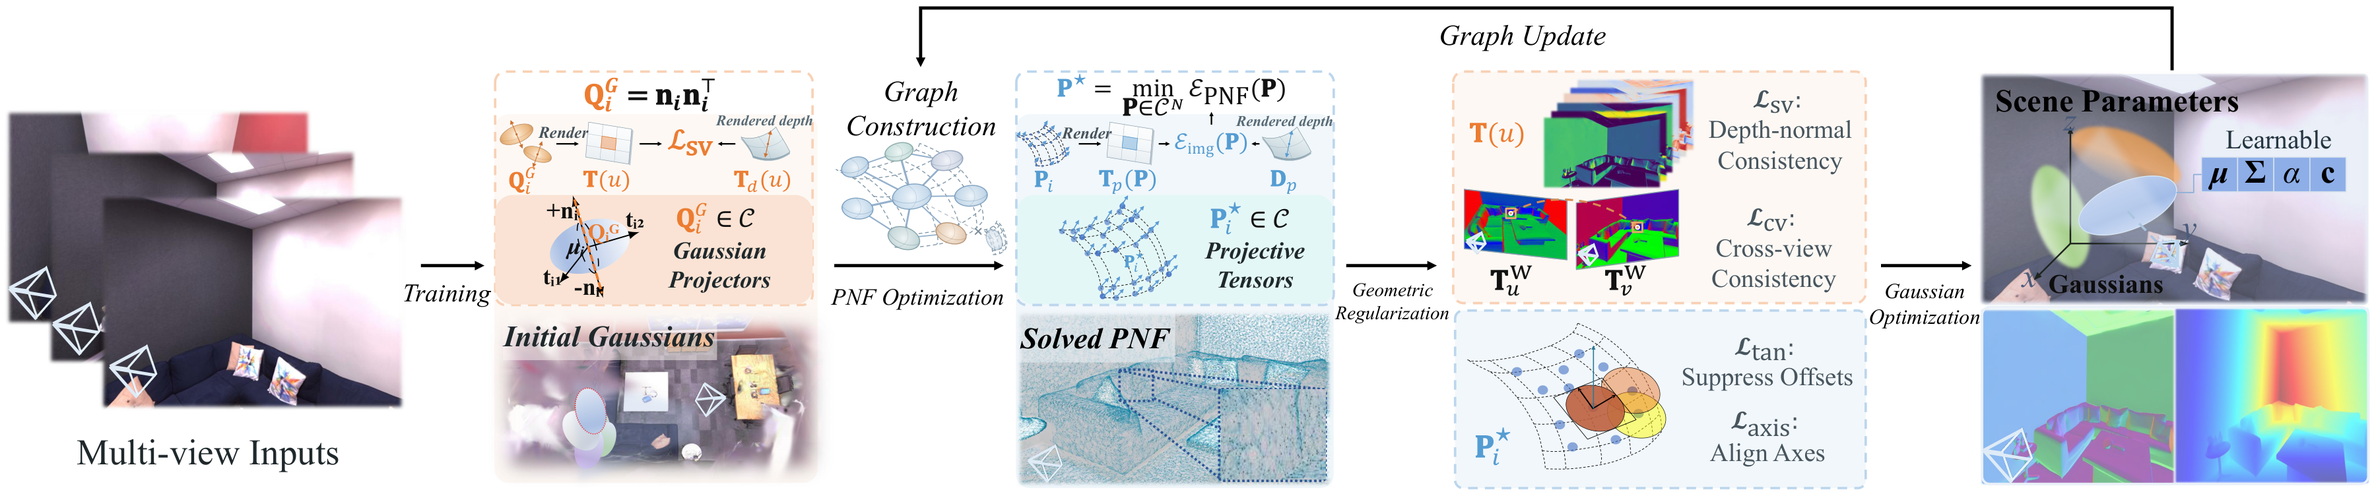
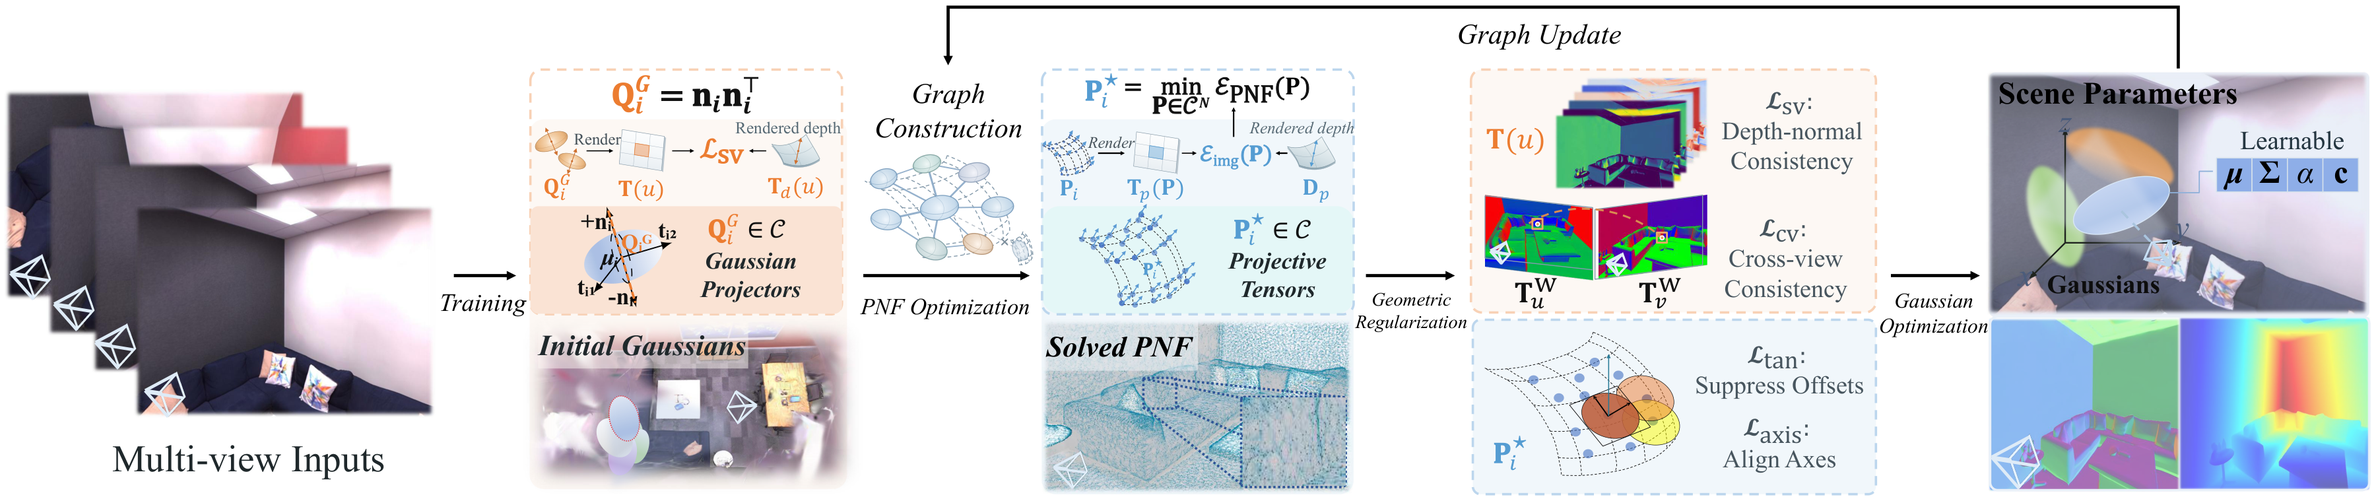
Add point-normal recovery and sync latest paper figures

diff --git a/VisPNF/index.html b/VisPNF/index.html
@@ -63,7 +63,7 @@
     <section id="method" class="method-section container" aria-labelledby="method-title">
       <div class="section-heading centered"><p class="eyebrow">Local evidence. Shared geometry.</p><h2 id="method-title">Method overview</h2></div>
       <figure class="method-figure">
-        <a href="assets/images/overview.webp?v=paper-a0293d3" target="_blank" rel="noopener" aria-label="Open full-resolution VisPNF method overview"><img src="assets/images/overview.webp?v=paper-a0293d3" width="3600" height="752" alt="VisPNF pipeline: graph construction, Gaussian-aware anchors, field optimization with rendered-field constraints, and Gaussian optimization using geometric regularization." loading="lazy" decoding="async"></a>
+        <a href="assets/images/overview.webp?v=paper-d8870f4" target="_blank" rel="noopener" aria-label="Open full-resolution VisPNF method overview"><img src="assets/images/overview.webp?v=paper-d8870f4" width="3600" height="759" alt="VisPNF pipeline: graph construction, Gaussian-aware anchors, field optimization with rendered-field constraints, and Gaussian optimization using geometric regularization." loading="lazy" decoding="async"></a>
         <figcaption>Projective field inference and Gaussian optimization are coupled through fixed geometric targets.</figcaption>
       </figure>
       <div class="method-description">
@@ -182,25 +182,35 @@
         <p class="result-table-note" id="result-table-note">Metrics are averaged over scenes. CD is in centimeters; F-score and normal consistency (NC) are percentages. ↑ / ↓ indicate higher / lower is better.</p>
       </article>
       <div class="results-description experiment-analysis"><p><strong>Reconstruction.</strong> VisPNF achieves the lowest mean CD and highest mean F-score on all three datasets. It ranks first in mean NC on Replica and ScanNet++ and second on MuSHRoom, behind AmbiSuR.</p><p><strong>Rendering.</strong> VisPNF achieves the highest mean PSNR on Replica and the lowest mean LPIPS on all three datasets, improving both metrics over PGSR across all three benchmarks.</p></div>
+      <figure class="experiment-figure" id="experiment-figure-3">
+        <figcaption><span class="result-kicker">Figure 3</span><h3>Point-normal recovery</h3><p>On a fixed set of 500,000 points from a synthetic scene, all variants use identical anchors and initialization. Full PNF achieves lower final angular error than either ablation. Rendered-field consistency incorporates depth-normal evidence into field inference, while radiance affinity weights neighboring cues according to appearance agreement.</p><p>Left: RGB images and angular-error maps with matched insets. The maps share a logarithmic color scale; gray indicates no common valid support. Right: mean unsigned normal error against iteration count and solver time.</p></figcaption>
+        <a href="assets/images/experiments/point-normal-recovery.webp?v=paper-d8870f4" target="_blank" rel="noopener" aria-label="Open Figure 3 at full resolution"><img src="assets/images/experiments/point-normal-recovery.webp?v=paper-d8870f4" width="3000" height="1155" loading="lazy" decoding="async" alt="Point-normal recovery. On a fixed set of 500,000 points from a synthetic scene, all variants use identical anchors and initialization. Full PNF achieves lower final angular error than either ablation. Rendered-field consistency incorporates depth-normal evidence into field inference, while radiance affinity weights neighboring cues according to appearance agreement."></a>
+        <a class="experiment-enlarge" href="assets/images/experiments/point-normal-recovery.webp?v=paper-d8870f4" target="_blank" rel="noopener">Open full-resolution figure <span aria-hidden="true">↗</span></a>
+      </figure>
       <figure class="experiment-figure" id="experiment-figure-4">
-        <figcaption><span class="result-kicker">Figure 4</span><h3>Surface reconstruction across indoor scenes</h3><p>Surface reconstruction on Replica (top two rows), ScanNet++ (middle two rows), and MuSHRoom (bottom two rows). Red dashed boxes highlight regions for comparing surface continuity and local structure.</p></figcaption>
-        <a href="assets/images/experiments/surface-reconstruction.webp?v=paper-a0293d3" target="_blank" rel="noopener" aria-label="Open Figure 4 at full resolution"><img src="assets/images/experiments/surface-reconstruction.webp?v=paper-a0293d3" width="2800" height="1678" loading="lazy" decoding="async" alt="Surface reconstruction across indoor scenes. Surface reconstruction on Replica (top two rows), ScanNet++ (middle two rows), and MuSHRoom (bottom two rows). Red dashed boxes highlight regions for comparing surface continuity and local structure."></a>
-        <a class="experiment-enlarge" href="assets/images/experiments/surface-reconstruction.webp?v=paper-a0293d3" target="_blank" rel="noopener">Open full-resolution figure <span aria-hidden="true">↗</span></a>
+        <figcaption><span class="result-kicker">Figure 4</span><h3>Convergence of the PNF solver</h3><p>The top and bottom rows compare projected FISTA, projected gradient descent (PGD), and projected Adam on a fixed geometric PNF subproblem (λ<sub>img</sub> = 0) and a full PNF objective (λ<sub>img</sub> = 0.05). In both cases, projected FISTA reaches a normalized iterate change below 10⁻⁴ faster than PGD and projected Adam.</p></figcaption>
+        <a href="assets/images/experiments/solver-convergence.webp?v=paper-d8870f4" target="_blank" rel="noopener" aria-label="Open Figure 4 at full resolution"><img src="assets/images/experiments/solver-convergence.webp?v=paper-d8870f4" width="1800" height="1088" loading="lazy" decoding="async" alt="Convergence of the PNF solver. The top and bottom rows compare projected FISTA, projected gradient descent (PGD), and projected Adam on a fixed geometric PNF subproblem (λimg = 0) and a full PNF objective (λimg = 0.05). In both cases, projected FISTA reaches a normalized iterate change below 10⁻⁴ faster than PGD and projected Adam."></a>
+        <a class="experiment-enlarge" href="assets/images/experiments/solver-convergence.webp?v=paper-d8870f4" target="_blank" rel="noopener">Open full-resolution figure <span aria-hidden="true">↗</span></a>
       </figure>
       <figure class="experiment-figure" id="experiment-figure-5">
-        <figcaption><span class="result-kicker">Figure 5</span><h3>Surface error against ground truth</h3><p>Error maps for the scenes and viewpoints in Figure 4. Colors show the distance from each visible reconstructed surface point to the nearest ground-truth surface. White color indicates no reconstructed surface.</p></figcaption>
-        <a href="assets/images/experiments/surface-error.webp?v=paper-a0293d3" target="_blank" rel="noopener" aria-label="Open Figure 5 at full resolution"><img src="assets/images/experiments/surface-error.webp?v=paper-a0293d3" width="2800" height="1542" loading="lazy" decoding="async" alt="Surface error against ground truth. Error maps for the scenes and viewpoints in Figure 4. Colors show the distance from each visible reconstructed surface point to the nearest ground-truth surface. White color indicates no reconstructed surface."></a>
-        <a class="experiment-enlarge" href="assets/images/experiments/surface-error.webp?v=paper-a0293d3" target="_blank" rel="noopener">Open full-resolution figure <span aria-hidden="true">↗</span></a>
+        <figcaption><span class="result-kicker">Figure 5</span><h3>Surface reconstruction across indoor scenes</h3><p>Surface reconstruction on Replica (top two rows), ScanNet++ (middle two rows), and MuSHRoom (bottom two rows). Red dashed boxes highlight regions for comparing surface continuity and local structure.</p></figcaption>
+        <a href="assets/images/experiments/surface-reconstruction.webp?v=paper-d8870f4" target="_blank" rel="noopener" aria-label="Open Figure 5 at full resolution"><img src="assets/images/experiments/surface-reconstruction.webp?v=paper-d8870f4" width="2800" height="1678" loading="lazy" decoding="async" alt="Surface reconstruction across indoor scenes. Surface reconstruction on Replica (top two rows), ScanNet++ (middle two rows), and MuSHRoom (bottom two rows). Red dashed boxes highlight regions for comparing surface continuity and local structure."></a>
+        <a class="experiment-enlarge" href="assets/images/experiments/surface-reconstruction.webp?v=paper-d8870f4" target="_blank" rel="noopener">Open full-resolution figure <span aria-hidden="true">↗</span></a>
       </figure>
       <figure class="experiment-figure" id="experiment-figure-6">
-        <figcaption><span class="result-kicker">Figure 6</span><h3>Optimized Gaussian kernels</h3><p>Optimized Gaussian kernels on Replica (left) and ScanNet++ (right). VisPNF produces more regular kernel distributions than its PGSR backbone.</p></figcaption>
-        <a href="assets/images/experiments/gaussian-kernels.webp?v=paper-a0293d3" target="_blank" rel="noopener" aria-label="Open Figure 6 at full resolution"><img src="assets/images/experiments/gaussian-kernels.webp?v=paper-a0293d3" width="2800" height="877" loading="lazy" decoding="async" alt="Optimized Gaussian kernels. Optimized Gaussian kernels on Replica (left) and ScanNet++ (right). VisPNF produces more regular kernel distributions than its PGSR backbone."></a>
-        <a class="experiment-enlarge" href="assets/images/experiments/gaussian-kernels.webp?v=paper-a0293d3" target="_blank" rel="noopener">Open full-resolution figure <span aria-hidden="true">↗</span></a>
+        <figcaption><span class="result-kicker">Figure 6</span><h3>Surface error against ground truth</h3><p>Error maps for the scenes and viewpoints in Figure 5. Colors show the distance from each visible reconstructed surface point to the nearest ground-truth surface. White color indicates no reconstructed surface.</p></figcaption>
+        <a href="assets/images/experiments/surface-error.webp?v=paper-d8870f4" target="_blank" rel="noopener" aria-label="Open Figure 6 at full resolution"><img src="assets/images/experiments/surface-error.webp?v=paper-d8870f4" width="2800" height="1542" loading="lazy" decoding="async" alt="Surface error against ground truth. Error maps for the scenes and viewpoints in Figure 5. Colors show the distance from each visible reconstructed surface point to the nearest ground-truth surface. White color indicates no reconstructed surface."></a>
+        <a class="experiment-enlarge" href="assets/images/experiments/surface-error.webp?v=paper-d8870f4" target="_blank" rel="noopener">Open full-resolution figure <span aria-hidden="true">↗</span></a>
       </figure>
       <figure class="experiment-figure" id="experiment-figure-7">
-        <figcaption><span class="result-kicker">Figure 7</span><h3>RGB, normal, and depth comparisons</h3><p>Qualitative comparison of RGB images, normal maps, and depth maps. Red dashed boxes mark corresponding regions.</p></figcaption>
-        <a href="assets/images/experiments/rgb-normal-depth.webp?v=paper-a0293d3" target="_blank" rel="noopener" aria-label="Open Figure 7 at full resolution"><img src="assets/images/experiments/rgb-normal-depth.webp?v=paper-a0293d3" width="3000" height="2519" loading="lazy" decoding="async" alt="RGB, normal, and depth comparisons. Qualitative comparison of RGB images, normal maps, and depth maps. Red dashed boxes mark corresponding regions."></a>
-        <a class="experiment-enlarge" href="assets/images/experiments/rgb-normal-depth.webp?v=paper-a0293d3" target="_blank" rel="noopener">Open full-resolution figure <span aria-hidden="true">↗</span></a>
+        <figcaption><span class="result-kicker">Figure 7</span><h3>Optimized Gaussian kernels</h3><p>Optimized Gaussian kernels on Replica (left) and ScanNet++ (right). VisPNF produces more regular kernel distributions than its PGSR backbone.</p></figcaption>
+        <a href="assets/images/experiments/gaussian-kernels.webp?v=paper-d8870f4" target="_blank" rel="noopener" aria-label="Open Figure 7 at full resolution"><img src="assets/images/experiments/gaussian-kernels.webp?v=paper-d8870f4" width="2800" height="877" loading="lazy" decoding="async" alt="Optimized Gaussian kernels. Optimized Gaussian kernels on Replica (left) and ScanNet++ (right). VisPNF produces more regular kernel distributions than its PGSR backbone."></a>
+        <a class="experiment-enlarge" href="assets/images/experiments/gaussian-kernels.webp?v=paper-d8870f4" target="_blank" rel="noopener">Open full-resolution figure <span aria-hidden="true">↗</span></a>
+      </figure>
+      <figure class="experiment-figure" id="experiment-figure-8">
+        <figcaption><span class="result-kicker">Figure 8</span><h3>RGB, normal, and depth comparisons</h3><p>Qualitative comparison of RGB images, normal maps, and depth maps. Red dashed boxes mark corresponding regions.</p></figcaption>
+        <a href="assets/images/experiments/rgb-normal-depth.webp?v=paper-d8870f4" target="_blank" rel="noopener" aria-label="Open Figure 8 at full resolution"><img src="assets/images/experiments/rgb-normal-depth.webp?v=paper-d8870f4" width="3000" height="2604" loading="lazy" decoding="async" alt="RGB, normal, and depth comparisons. Qualitative comparison of RGB images, normal maps, and depth maps. Red dashed boxes mark corresponding regions."></a>
+        <a class="experiment-enlarge" href="assets/images/experiments/rgb-normal-depth.webp?v=paper-d8870f4" target="_blank" rel="noopener">Open full-resolution figure <span aria-hidden="true">↗</span></a>
       </figure>
     </section>
     <section class="prose-container closing-section"><h2>Coherent geometry across indoor environments</h2><p>Across Replica, ScanNet++, and MuSHRoom, VisPNF consistently improves surface reconstruction and rendering quality over PGSR. The projective field provides a common geometric representation across these different capture conditions.</p></section>

diff --git a/review/index.html b/review/index.html
@@ -65,7 +65,7 @@
     <section id="method" class="method-section container" aria-labelledby="method-title">
       <div class="section-heading centered"><p class="eyebrow">Local evidence. Shared geometry.</p><h2 id="method-title">Method overview</h2></div>
       <figure class="method-figure">
-        <a href="assets/images/overview.webp?v=paper-a0293d3" target="_blank" rel="noopener" aria-label="Open full-resolution VisPNF method overview"><img src="assets/images/overview.webp?v=paper-a0293d3" width="3600" height="752" alt="VisPNF pipeline: graph construction, Gaussian-aware anchors, field optimization with rendered-field constraints, and Gaussian optimization using geometric regularization." loading="lazy" decoding="async"></a>
+        <a href="assets/images/overview.webp?v=paper-d8870f4" target="_blank" rel="noopener" aria-label="Open full-resolution VisPNF method overview"><img src="assets/images/overview.webp?v=paper-d8870f4" width="3600" height="759" alt="VisPNF pipeline: graph construction, Gaussian-aware anchors, field optimization with rendered-field constraints, and Gaussian optimization using geometric regularization." loading="lazy" decoding="async"></a>
         <figcaption>Projective field inference and Gaussian optimization are coupled through fixed geometric targets.</figcaption>
       </figure>
       <div class="method-description">
@@ -184,25 +184,35 @@
         <p class="result-table-note" id="result-table-note">Metrics are averaged over scenes. CD is in centimeters; F-score and normal consistency (NC) are percentages. ↑ / ↓ indicate higher / lower is better.</p>
       </article>
       <div class="results-description experiment-analysis"><p><strong>Reconstruction.</strong> VisPNF achieves the lowest mean CD and highest mean F-score on all three datasets. It ranks first in mean NC on Replica and ScanNet++ and second on MuSHRoom, behind AmbiSuR.</p><p><strong>Rendering.</strong> VisPNF achieves the highest mean PSNR on Replica and the lowest mean LPIPS on all three datasets, improving both metrics over PGSR across all three benchmarks.</p></div>
+      <figure class="experiment-figure" id="experiment-figure-3">
+        <figcaption><span class="result-kicker">Figure 3</span><h3>Point-normal recovery</h3><p>On a fixed set of 500,000 points from a synthetic scene, all variants use identical anchors and initialization. Full PNF achieves lower final angular error than either ablation. Rendered-field consistency incorporates depth-normal evidence into field inference, while radiance affinity weights neighboring cues according to appearance agreement.</p><p>Left: RGB images and angular-error maps with matched insets. The maps share a logarithmic color scale; gray indicates no common valid support. Right: mean unsigned normal error against iteration count and solver time.</p></figcaption>
+        <a href="assets/images/experiments/point-normal-recovery.webp?v=paper-d8870f4" target="_blank" rel="noopener" aria-label="Open Figure 3 at full resolution"><img src="assets/images/experiments/point-normal-recovery.webp?v=paper-d8870f4" width="3000" height="1155" loading="lazy" decoding="async" alt="Point-normal recovery. On a fixed set of 500,000 points from a synthetic scene, all variants use identical anchors and initialization. Full PNF achieves lower final angular error than either ablation. Rendered-field consistency incorporates depth-normal evidence into field inference, while radiance affinity weights neighboring cues according to appearance agreement."></a>
+        <a class="experiment-enlarge" href="assets/images/experiments/point-normal-recovery.webp?v=paper-d8870f4" target="_blank" rel="noopener">Open full-resolution figure <span aria-hidden="true">↗</span></a>
+      </figure>
       <figure class="experiment-figure" id="experiment-figure-4">
-        <figcaption><span class="result-kicker">Figure 4</span><h3>Surface reconstruction across indoor scenes</h3><p>Surface reconstruction on Replica (top two rows), ScanNet++ (middle two rows), and MuSHRoom (bottom two rows). Red dashed boxes highlight regions for comparing surface continuity and local structure.</p></figcaption>
-        <a href="assets/images/experiments/surface-reconstruction.webp?v=paper-a0293d3" target="_blank" rel="noopener" aria-label="Open Figure 4 at full resolution"><img src="assets/images/experiments/surface-reconstruction.webp?v=paper-a0293d3" width="2800" height="1678" loading="lazy" decoding="async" alt="Surface reconstruction across indoor scenes. Surface reconstruction on Replica (top two rows), ScanNet++ (middle two rows), and MuSHRoom (bottom two rows). Red dashed boxes highlight regions for comparing surface continuity and local structure."></a>
-        <a class="experiment-enlarge" href="assets/images/experiments/surface-reconstruction.webp?v=paper-a0293d3" target="_blank" rel="noopener">Open full-resolution figure <span aria-hidden="true">↗</span></a>
+        <figcaption><span class="result-kicker">Figure 4</span><h3>Convergence of the PNF solver</h3><p>The top and bottom rows compare projected FISTA, projected gradient descent (PGD), and projected Adam on a fixed geometric PNF subproblem (λ<sub>img</sub> = 0) and a full PNF objective (λ<sub>img</sub> = 0.05). In both cases, projected FISTA reaches a normalized iterate change below 10⁻⁴ faster than PGD and projected Adam.</p></figcaption>
+        <a href="assets/images/experiments/solver-convergence.webp?v=paper-d8870f4" target="_blank" rel="noopener" aria-label="Open Figure 4 at full resolution"><img src="assets/images/experiments/solver-convergence.webp?v=paper-d8870f4" width="1800" height="1088" loading="lazy" decoding="async" alt="Convergence of the PNF solver. The top and bottom rows compare projected FISTA, projected gradient descent (PGD), and projected Adam on a fixed geometric PNF subproblem (λimg = 0) and a full PNF objective (λimg = 0.05). In both cases, projected FISTA reaches a normalized iterate change below 10⁻⁴ faster than PGD and projected Adam."></a>
+        <a class="experiment-enlarge" href="assets/images/experiments/solver-convergence.webp?v=paper-d8870f4" target="_blank" rel="noopener">Open full-resolution figure <span aria-hidden="true">↗</span></a>
       </figure>
       <figure class="experiment-figure" id="experiment-figure-5">
-        <figcaption><span class="result-kicker">Figure 5</span><h3>Surface error against ground truth</h3><p>Error maps for the scenes and viewpoints in Figure 4. Colors show the distance from each visible reconstructed surface point to the nearest ground-truth surface. White color indicates no reconstructed surface.</p></figcaption>
-        <a href="assets/images/experiments/surface-error.webp?v=paper-a0293d3" target="_blank" rel="noopener" aria-label="Open Figure 5 at full resolution"><img src="assets/images/experiments/surface-error.webp?v=paper-a0293d3" width="2800" height="1542" loading="lazy" decoding="async" alt="Surface error against ground truth. Error maps for the scenes and viewpoints in Figure 4. Colors show the distance from each visible reconstructed surface point to the nearest ground-truth surface. White color indicates no reconstructed surface."></a>
-        <a class="experiment-enlarge" href="assets/images/experiments/surface-error.webp?v=paper-a0293d3" target="_blank" rel="noopener">Open full-resolution figure <span aria-hidden="true">↗</span></a>
+        <figcaption><span class="result-kicker">Figure 5</span><h3>Surface reconstruction across indoor scenes</h3><p>Surface reconstruction on Replica (top two rows), ScanNet++ (middle two rows), and MuSHRoom (bottom two rows). Red dashed boxes highlight regions for comparing surface continuity and local structure.</p></figcaption>
+        <a href="assets/images/experiments/surface-reconstruction.webp?v=paper-d8870f4" target="_blank" rel="noopener" aria-label="Open Figure 5 at full resolution"><img src="assets/images/experiments/surface-reconstruction.webp?v=paper-d8870f4" width="2800" height="1678" loading="lazy" decoding="async" alt="Surface reconstruction across indoor scenes. Surface reconstruction on Replica (top two rows), ScanNet++ (middle two rows), and MuSHRoom (bottom two rows). Red dashed boxes highlight regions for comparing surface continuity and local structure."></a>
+        <a class="experiment-enlarge" href="assets/images/experiments/surface-reconstruction.webp?v=paper-d8870f4" target="_blank" rel="noopener">Open full-resolution figure <span aria-hidden="true">↗</span></a>
       </figure>
       <figure class="experiment-figure" id="experiment-figure-6">
-        <figcaption><span class="result-kicker">Figure 6</span><h3>Optimized Gaussian kernels</h3><p>Optimized Gaussian kernels on Replica (left) and ScanNet++ (right). VisPNF produces more regular kernel distributions than its PGSR backbone.</p></figcaption>
-        <a href="assets/images/experiments/gaussian-kernels.webp?v=paper-a0293d3" target="_blank" rel="noopener" aria-label="Open Figure 6 at full resolution"><img src="assets/images/experiments/gaussian-kernels.webp?v=paper-a0293d3" width="2800" height="877" loading="lazy" decoding="async" alt="Optimized Gaussian kernels. Optimized Gaussian kernels on Replica (left) and ScanNet++ (right). VisPNF produces more regular kernel distributions than its PGSR backbone."></a>
-        <a class="experiment-enlarge" href="assets/images/experiments/gaussian-kernels.webp?v=paper-a0293d3" target="_blank" rel="noopener">Open full-resolution figure <span aria-hidden="true">↗</span></a>
+        <figcaption><span class="result-kicker">Figure 6</span><h3>Surface error against ground truth</h3><p>Error maps for the scenes and viewpoints in Figure 5. Colors show the distance from each visible reconstructed surface point to the nearest ground-truth surface. White color indicates no reconstructed surface.</p></figcaption>
+        <a href="assets/images/experiments/surface-error.webp?v=paper-d8870f4" target="_blank" rel="noopener" aria-label="Open Figure 6 at full resolution"><img src="assets/images/experiments/surface-error.webp?v=paper-d8870f4" width="2800" height="1542" loading="lazy" decoding="async" alt="Surface error against ground truth. Error maps for the scenes and viewpoints in Figure 5. Colors show the distance from each visible reconstructed surface point to the nearest ground-truth surface. White color indicates no reconstructed surface."></a>
+        <a class="experiment-enlarge" href="assets/images/experiments/surface-error.webp?v=paper-d8870f4" target="_blank" rel="noopener">Open full-resolution figure <span aria-hidden="true">↗</span></a>
       </figure>
       <figure class="experiment-figure" id="experiment-figure-7">
-        <figcaption><span class="result-kicker">Figure 7</span><h3>RGB, normal, and depth comparisons</h3><p>Qualitative comparison of RGB images, normal maps, and depth maps. Red dashed boxes mark corresponding regions.</p></figcaption>
-        <a href="assets/images/experiments/rgb-normal-depth.webp?v=paper-a0293d3" target="_blank" rel="noopener" aria-label="Open Figure 7 at full resolution"><img src="assets/images/experiments/rgb-normal-depth.webp?v=paper-a0293d3" width="3000" height="2519" loading="lazy" decoding="async" alt="RGB, normal, and depth comparisons. Qualitative comparison of RGB images, normal maps, and depth maps. Red dashed boxes mark corresponding regions."></a>
-        <a class="experiment-enlarge" href="assets/images/experiments/rgb-normal-depth.webp?v=paper-a0293d3" target="_blank" rel="noopener">Open full-resolution figure <span aria-hidden="true">↗</span></a>
+        <figcaption><span class="result-kicker">Figure 7</span><h3>Optimized Gaussian kernels</h3><p>Optimized Gaussian kernels on Replica (left) and ScanNet++ (right). VisPNF produces more regular kernel distributions than its PGSR backbone.</p></figcaption>
+        <a href="assets/images/experiments/gaussian-kernels.webp?v=paper-d8870f4" target="_blank" rel="noopener" aria-label="Open Figure 7 at full resolution"><img src="assets/images/experiments/gaussian-kernels.webp?v=paper-d8870f4" width="2800" height="877" loading="lazy" decoding="async" alt="Optimized Gaussian kernels. Optimized Gaussian kernels on Replica (left) and ScanNet++ (right). VisPNF produces more regular kernel distributions than its PGSR backbone."></a>
+        <a class="experiment-enlarge" href="assets/images/experiments/gaussian-kernels.webp?v=paper-d8870f4" target="_blank" rel="noopener">Open full-resolution figure <span aria-hidden="true">↗</span></a>
+      </figure>
+      <figure class="experiment-figure" id="experiment-figure-8">
+        <figcaption><span class="result-kicker">Figure 8</span><h3>RGB, normal, and depth comparisons</h3><p>Qualitative comparison of RGB images, normal maps, and depth maps. Red dashed boxes mark corresponding regions.</p></figcaption>
+        <a href="assets/images/experiments/rgb-normal-depth.webp?v=paper-d8870f4" target="_blank" rel="noopener" aria-label="Open Figure 8 at full resolution"><img src="assets/images/experiments/rgb-normal-depth.webp?v=paper-d8870f4" width="3000" height="2604" loading="lazy" decoding="async" alt="RGB, normal, and depth comparisons. Qualitative comparison of RGB images, normal maps, and depth maps. Red dashed boxes mark corresponding regions."></a>
+        <a class="experiment-enlarge" href="assets/images/experiments/rgb-normal-depth.webp?v=paper-d8870f4" target="_blank" rel="noopener">Open full-resolution figure <span aria-hidden="true">↗</span></a>
       </figure>
     </section>
     <section class="prose-container closing-section"><h2>Coherent geometry across indoor environments</h2><p>Across Replica, ScanNet++, and MuSHRoom, VisPNF consistently improves surface reconstruction and rendering quality over PGSR. The projective field provides a common geometric representation across these different capture conditions.</p></section>

diff --git a/VisPNF/README.md b/VisPNF/README.md
@@ -47,4 +47,4 @@ The VisPNF-only teaser waits for a play action before downloading video data. In
 
 The results section follows the videos and interactive comparisons. One combined table reports all 108 metric values from the current manuscript, with separate reconstruction and rendering headers. Dense ranks preserve ties, and rank colors fill the entire cell. On narrow screens the table scrolls within its container.
 
-Figures 4–7 show mesh comparisons including GOF, surface-error maps with a vertical colorbar, optimized Gaussian kernel close-ups against PGSR, and RGB/normal/depth comparisons including GOF. The method overview also matches the current manuscript. All five figures are lossless WebP exports, preserve their aspect ratios, and link to full-resolution images. Ablation experiments are omitted. Video playback and background preloading retain their existing behavior.
+Figures 3–4 show point-normal recovery on a fixed synthetic point set and PNF solver convergence. The point-normal curves report mean unsigned angular error against iteration count and synchronized solver time, with matching image comparisons. Figures 5–8 show mesh comparisons including GOF, surface-error maps, optimized Gaussian kernel close-ups against PGSR, and RGB/normal/depth comparisons including GOF. The method overview matches the current manuscript. All seven figures are lossless WebP exports, preserve their aspect ratios, and link to full-resolution images. Video playback and background preloading retain their existing behavior.

diff --git a/review/README.md b/review/README.md
@@ -12,4 +12,4 @@ Font licenses remain in `assets/fonts/`. Layout credits are retained in the page
 
 The results section follows the videos and interactive comparisons. One combined table reports all 108 metric values from the current manuscript, with separate reconstruction and rendering headers. Dense ranks preserve ties, and rank colors fill the entire cell. On narrow screens the table scrolls within its container.
 
-Figures 4–7 show mesh comparisons including GOF, surface-error maps with a vertical colorbar, optimized Gaussian kernel close-ups against PGSR, and RGB/normal/depth comparisons including GOF. The method overview also matches the current manuscript. All five figures are lossless WebP exports, preserve their aspect ratios, and link to full-resolution images. Ablation experiments are omitted. Video playback and background preloading retain their existing behavior.
+Figures 3–4 show point-normal recovery on a fixed synthetic point set and PNF solver convergence. The point-normal curves report mean unsigned angular error against iteration count and synchronized solver time, with matching image comparisons. Figures 5–8 show mesh comparisons including GOF, surface-error maps, optimized Gaussian kernel close-ups against PGSR, and RGB/normal/depth comparisons including GOF. The method overview matches the current manuscript. All seven figures are lossless WebP exports, preserve their aspect ratios, and link to full-resolution images. Video playback and background preloading retain their existing behavior.
